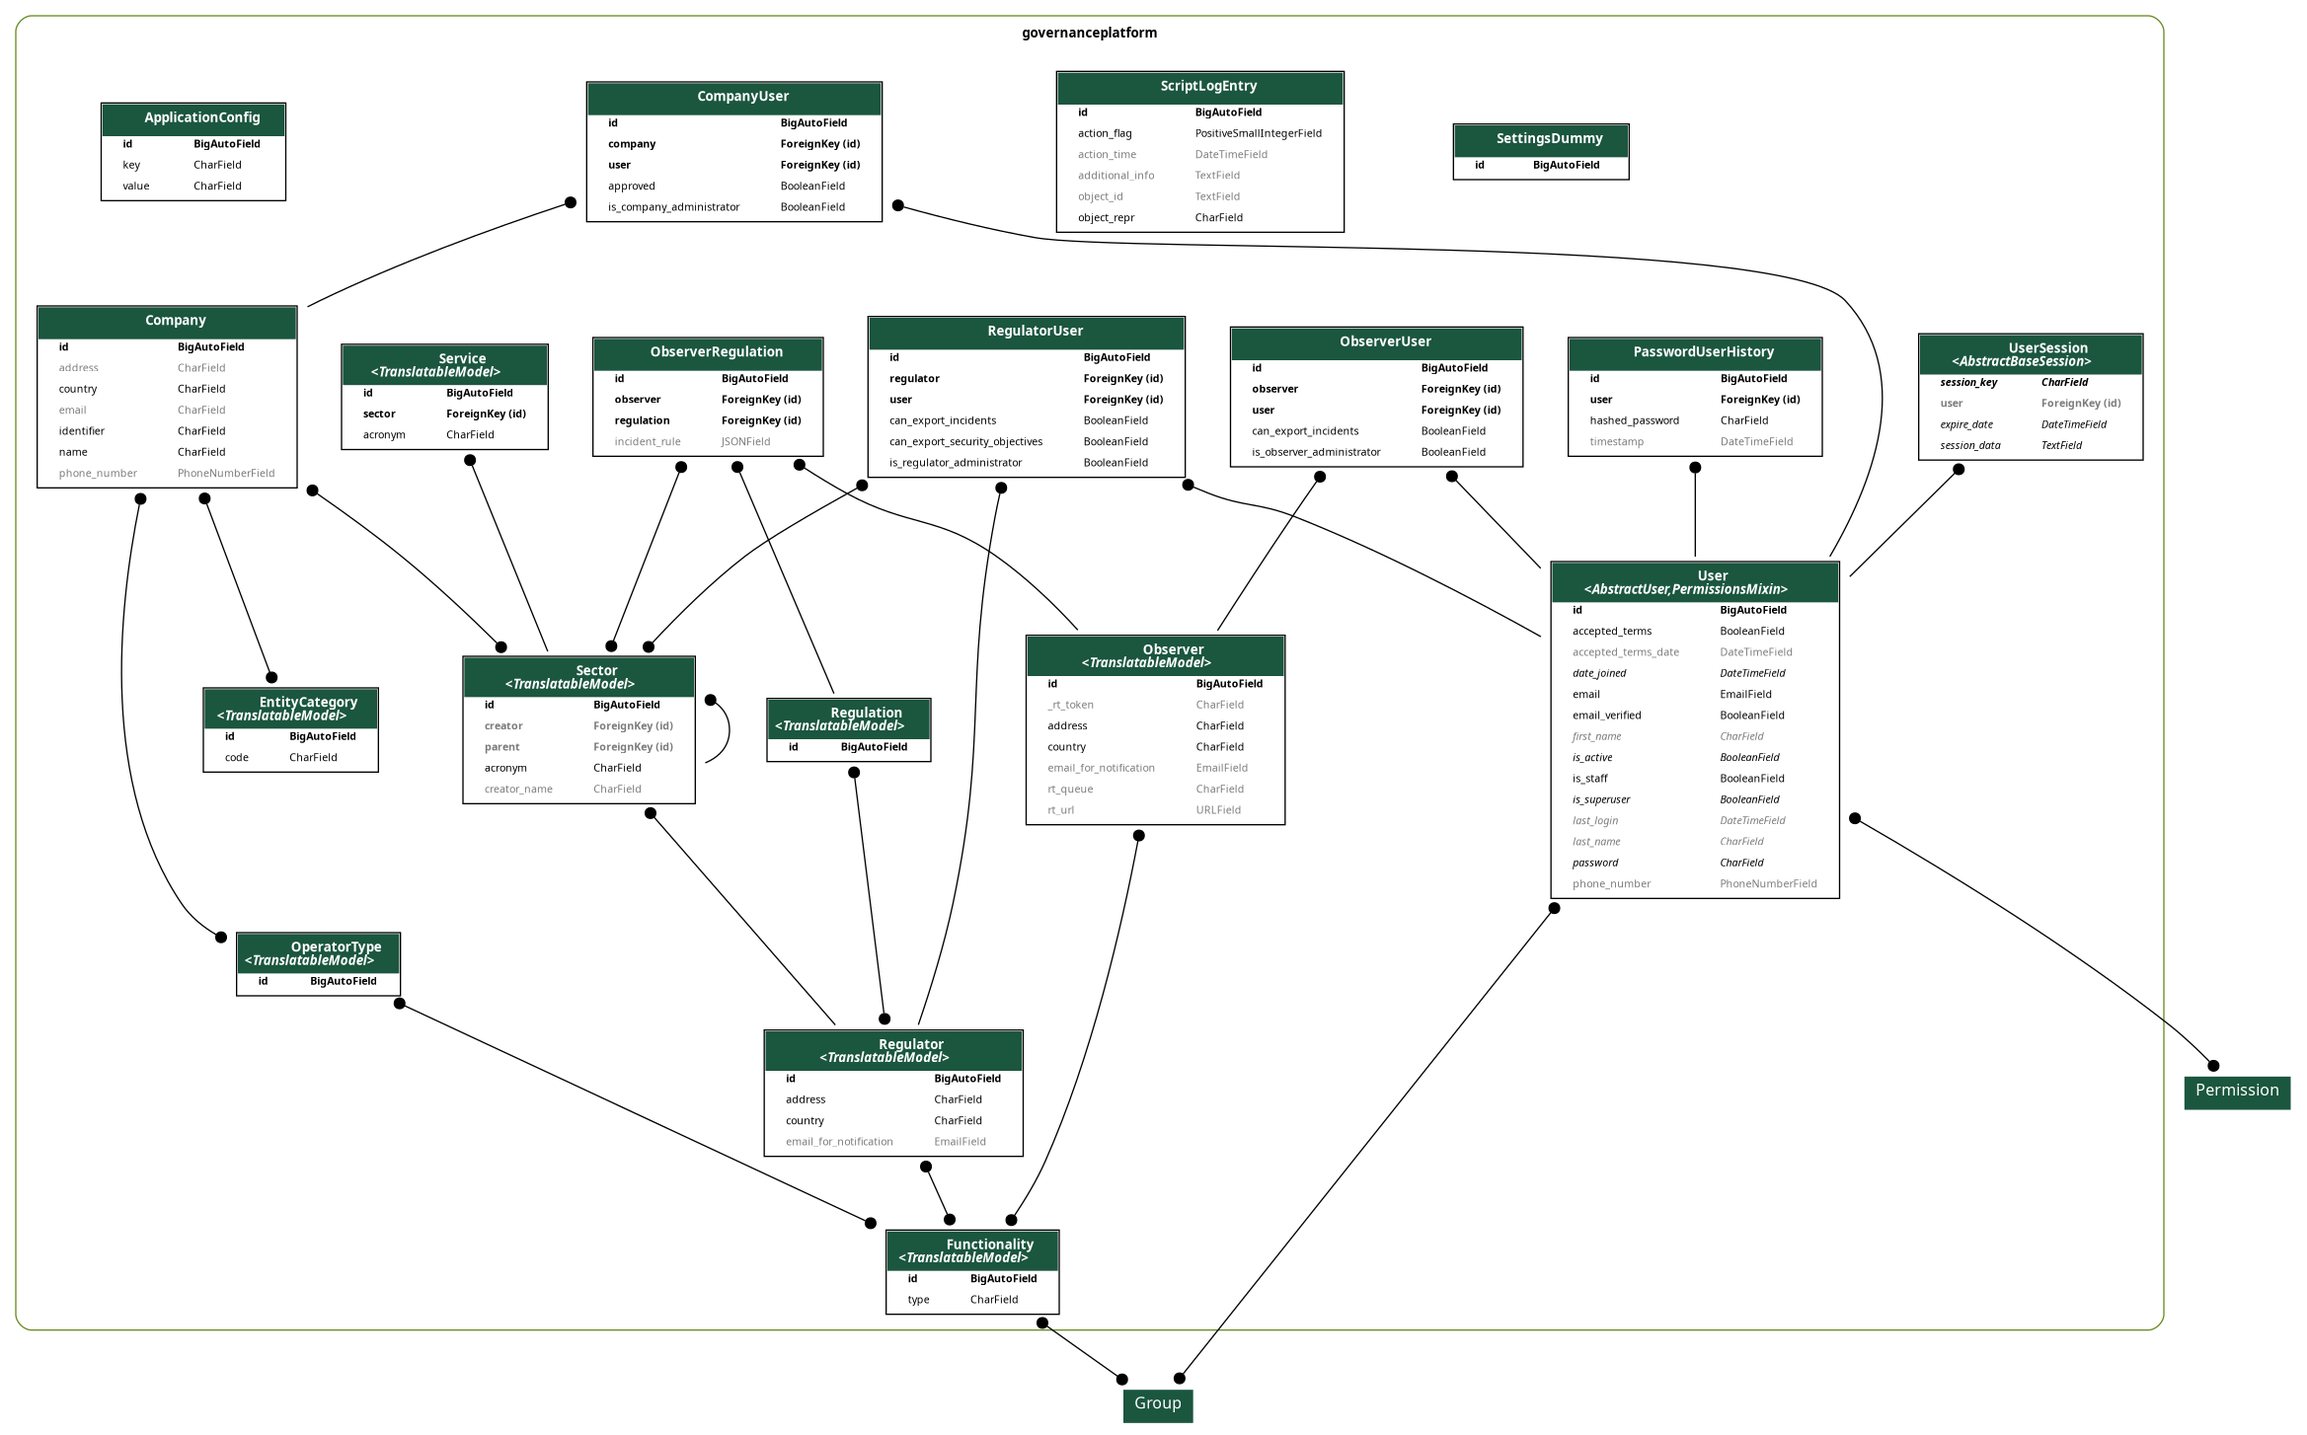
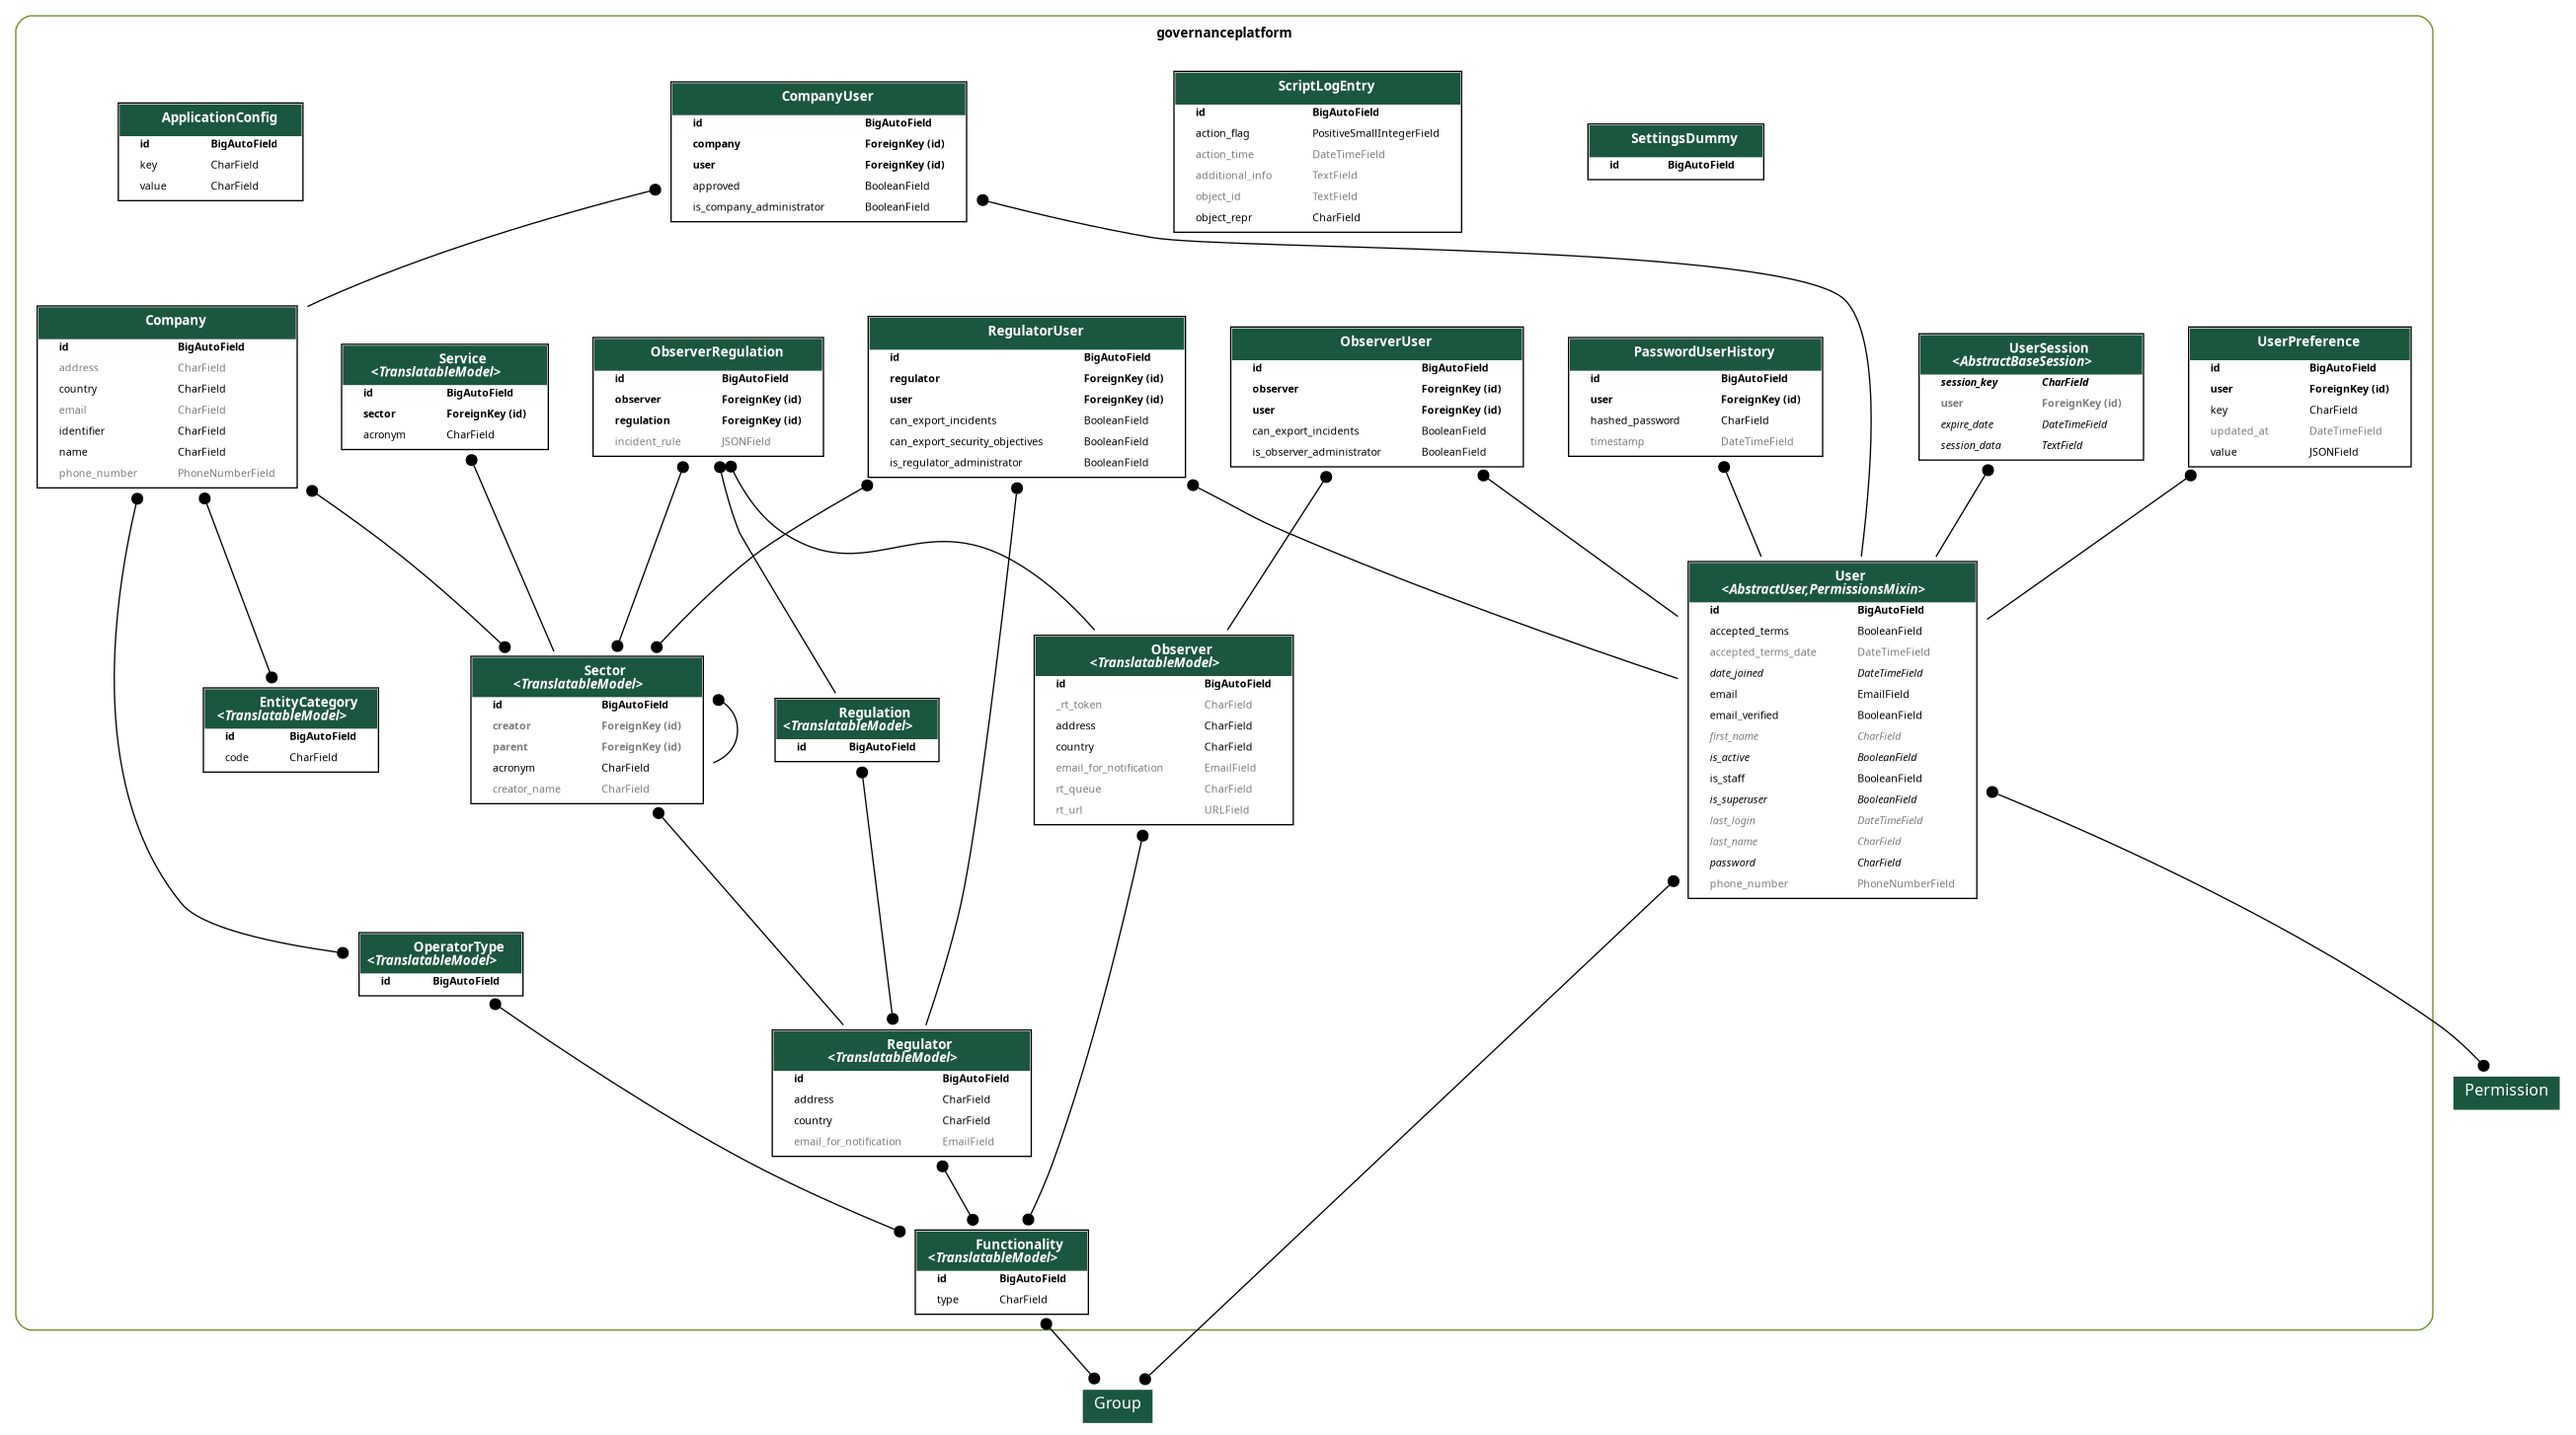
[Docs][Dashboard] Updated dashboard notes to clarify persistence of filter, sort order, and entries per page settings across logins; specified search retention behavior, comment #673

diff --git a/docs/reporting/managing-the-dashboard.rst b/docs/reporting/managing-the-dashboard.rst
@@ -14,6 +14,7 @@ By default, the Dashboard table displays 10 projects. If you have more projects,
 
 The screenshot above shows that 12 projects are displayed across two pages, so you need to switch between pages to access the last two.
 To avoid that, you can set the **Entries per page** value to 25 so that all projects are displayed on a single Dashboard page, keeping them visible and easy to track.
+The value you choose is saved in your account and still applies the next time you log in.
 
 Navigate between Dashboard pages
 ~~~~~~~~~~~~~~~~~~~~~~~~~~~~~~~~~
@@ -35,7 +36,10 @@ This is particularly recommended when you have many projects, as it enables you 
    :alt: Search among projects
    :target: ../_static/images/reporting/managing-the-dashboard-03.png
 
-Click the **X** icon to the right of the Search field to clear the search criteria and return to the full Dashboard view.
+Click the **X** icon to the right of the Search field to clear the search.
+Clearing the search does not clear the filter: while a filter is applied, the **Filter** button shows **(Active)**,
+and **Reset** in the filter pop-up returns to the full Dashboard view.
+The search is kept only until you log out, whereas the filter is saved in your account and still applies the next time you log in.
 
 Filter projects
 ~~~~~~~~~~~~~~~~~~~~~~~~~~~~~~~~~
@@ -51,6 +55,7 @@ Sort projects
 
 On the Dashboard, you can sort the columns by clicking the up- or down-pointing arrows beside each column header. The arrow indicates whether the order is ascending or descending, allowing you to sort both the column values and the projects accordingly.
 Only one sorting criterion can be applied at a time, meaning sorting is active in just one column, either ascending or descending.
+The sort order you choose is saved in your account and still applies the next time you log in.
 
 In the screenshot below, the projects are sorted by their last modification date. The upward-pointing triangle icon in the **Modified** column shows that the most recently modified projects are displayed at the top, in descending chronological order, with older projects below.
 
@@ -78,3 +83,4 @@ To hide a column, simply remove the checkmark next to the relevant column name.
 For example, if most of your reports are related to the same sector and the same base year, displaying these columns may not be necessary.
 Hiding them can make the report list on the dashboard cleaner and easier to understand.
 Once you uncheck a checkbox, the relevant column immediately disappears from the dashboard.
+Your choice of columns is saved in your account, so the dashboard shows the same columns after you log in again, on any computer or browser.

diff --git a/docs/incident-notification/dashboard.rst b/docs/incident-notification/dashboard.rst
@@ -45,7 +45,9 @@ Due to the complexity of the screen, its different parts will be presented one b
 
    .. note::
 
-      The search, the filter and the sort order are kept until you log out, even if you leave the dashboard.
+      The filter, the sort order and the number of entries per page are saved in your account:
+      they still apply after you log out and back in, on any computer or browser.
+      The search is kept only until you log out.
       If the list looks incomplete, check whether the **Filter** button shows **(Active)**, and click **Reset** to see all incidents again.
 
 5. **Icon guide**: The Icon guide is represented by a book-shaped icon labeled **AZ**.
@@ -57,7 +59,7 @@ Due to the complexity of the screen, its different parts will be presented one b
 
    The first part of the legend explains the icons of the **Status** column: whether the incident has a significant impact, and whether it is ongoing or closed.
    The second part explains the status of each report in the **Report** column: unsubmitted, under review, submission overdue, late submission, revision required or passed.
-   You can hide the legend by clicking the Icon guide again.
+   You can hide the legend by clicking the Icon guide again. The dashboard remembers whether you left the legend open or closed.
    How a report moves from one status to the next is described in the :doc:`fill-in-a-report` and :doc:`review-a-report` chapters.
 
 6. **Columns and sorting**: The incidents are listed in a table. The screenshot below shows every column an operator can display;
@@ -149,8 +151,8 @@ Due to the complexity of the screen, its different parts will be presented one b
 
    .. note::
 
-      Your choice of columns is saved in your web browser, not in your account.
-      On another computer or browser, or after clearing your browser data, the dashboard shows the default columns again.
+      Your choice of columns is saved in your account,
+      so the dashboard shows the same columns after you log in again, on any computer or browser.
 
    .. figure:: /_static/images/incident-notification/dashboard-05.png
       :alt: Choice of columns pop-up with the displayed columns ticked

diff --git a/docs/reporting/dashboard.rst b/docs/reporting/dashboard.rst
@@ -36,6 +36,12 @@ Due to the complexity of the screen, its different parts will be presented one b
    :alt: Filter
    :target: ../_static/images/reporting/dashboard-05.png
 
+.. note::
+
+   The filter, the sort order and the number of entries per page are saved in your account:
+   they still apply after you log out and back in, on any computer or browser.
+   The search is kept only until you log out.
+
 7.	**Icon guide**: The **Icon Guide** is represented by a book-shaped icon labeled **AZ**. Clicking this icon displays the legend above the report list.
 
 8.	**Dashboard table column headings**: The header displays key information about the report, including when it was created (Created) and last modified (Modified), the report author (Author), the project name (Name), the applicable regulation (Regulation), the selected standard (Standard), the reference year used for reporting (Base Year), and the selected sectors.
@@ -51,6 +57,7 @@ Clicking the icon opens the **Choice of columns** pop-up, showing all available 
    :target: ../_static/images/reporting/dashboard-06.png
 
 For example, if most of your reports are related to the same sector and the same base year, displaying these columns may not be necessary. Hiding them can make the report list on the dashboard cleaner and easier to understand. Once you uncheck a checkbox, the relevant column immediately disappears from the dashboard.
+Your choice of columns is saved in your account, so the dashboard shows the same columns after you log in again, on any computer or browser.
 
 In the example below, the **Regulation** and the **Standard** columns were hidden (since the values were always NIS as the regulation, and NIS ENISA SO as the standard). As a result, only the columns with varying values remain visible:
 

diff --git a/docs/security-objectives/dashboard.rst b/docs/security-objectives/dashboard.rst
@@ -31,12 +31,14 @@ Its parts are numbered in the screenshot below and described one by one.
 
    .. note::
 
-      The search, the filter and the sort order are kept until you log out, even if you leave the dashboard.
+      The filter, the sort order and the number of entries per page are saved in your account:
+      they still apply after you log out and back in, on any computer or browser.
+      The search is kept only until you log out.
       If the list looks incomplete, check whether the **Filter** button shows **(Active)**.
 
 5. **Icon guide**: The book-shaped icon labeled **AZ** displays the legend above the list.
    Its first row explains the statuses shown in the **Status** column (see the table below); its second row, the action icons.
-   Click the icon again to hide the legend.
+   Click the icon again to hide the legend. The dashboard remembers whether you left the legend open or closed.
 
    .. figure:: /_static/images/security-objectives/dashboard-03.png
       :alt: Legend with the declaration statuses and the action icons
@@ -124,8 +126,8 @@ Its parts are numbered in the screenshot below and described one by one.
 
    .. note::
 
-      Your choice of columns is saved in your web browser, not in your account.
-      On another computer or browser, or after clearing your browser data, the dashboard shows all columns again.
+      Your choice of columns is saved in your account,
+      so the dashboard shows the same columns after you log in again, on any computer or browser.
 
 Points 8 to 13 are the actions of each declaration, in the order they appear in the **Actions** column.
 
